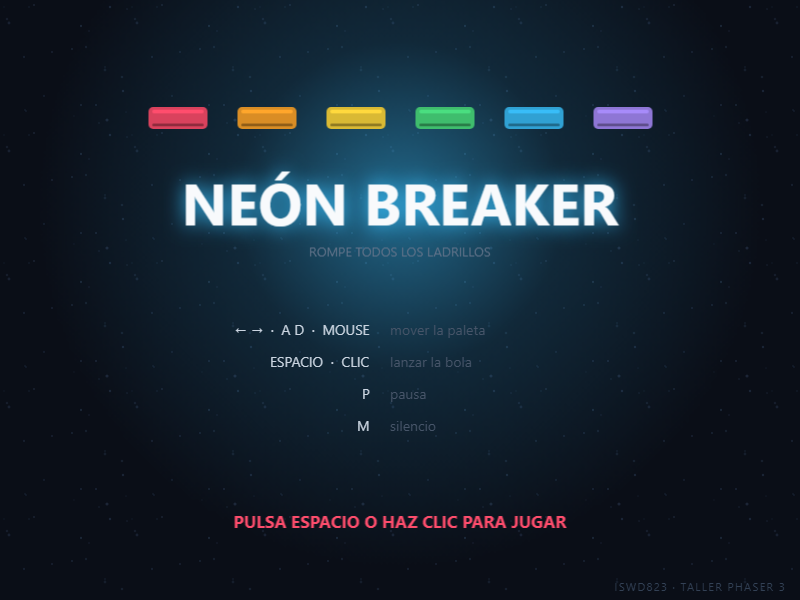
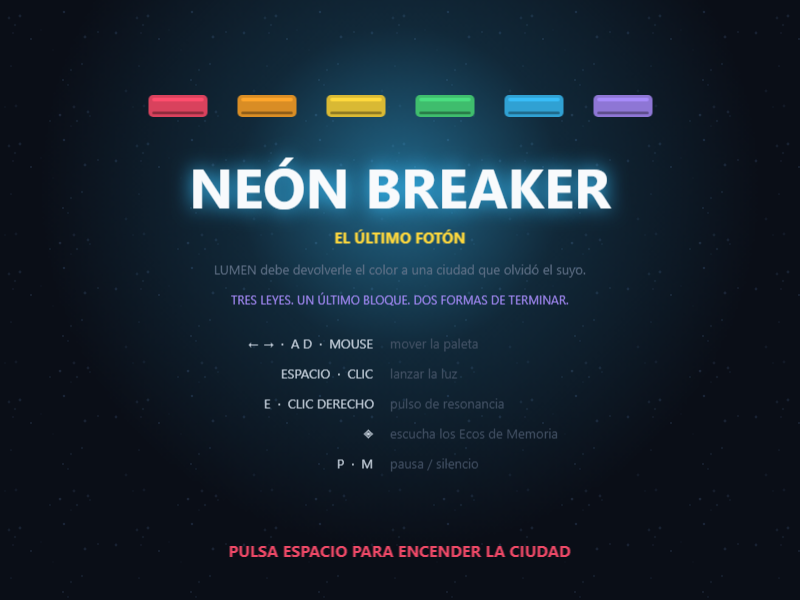
docs: capturas y texto de la version narrativa v2

diff --git a/ENTREGA-TALLER2.md b/ENTREGA-TALLER2.md
@@ -1,0 +1,150 @@
+# Entrega — Taller: Pre-Producción y CI/CD en Videojuegos
+
+## Mensaje para el canal de Teams
+
+```
+Taller Pre-Producción y CI/CD — Axel Manotoa
+
+Landing Page (GitHub Pages): https://2026b-sof-jueg-gr3.github.io/manotoa-axel-jueg-gr3/
+Plataforma Indie (Itch.io): https://axel112004.itch.io/neon-breaker
+
+CI/CD configurado con GitHub Actions + Butler:
+Archivo YAML: .github/workflows/deploy-itchio.yml
+
+Logline: LUMEN, el último fotón de una ciudad que olvidó su color, rompe los bloques del Apagón
+para devolverle la luz — sin saber que cada bloque es un recuerdo suyo, y que el último que quede
+en pie decidirá si la ciudad vuelve a brillar o vuelve a recordar.
+
+La narrativa se juega: 3 Leyes de la Luz como Ecos de Memoria, Pulso de Resonancia, un Interludio
+con giro, una cámara final con dos finales y un truco secreto que entrega el Sello del Último Fotón.
+
+Clasificación: E (Everyone) — violencia mínima contra bloques inanimados.
+Licencia: MIT · Assets procedimentales CC0 · Datos solo en localStorage, sin servidor ni analytics.
+```
+
+## Checklist
+
+- [x] **Misión 1:** Logline + **Lore** (3 Leyes) + **Resonancia** (aprender = recordar) + **Identidad** (romper = borrar un nombre), todo implementado dentro del juego, no solo en la web. Ver `docs/PREPRODUCCION.md`.
+- [x] **Misión 1 extra:** giro narrativo (Interludio), truco secreto, dos finales, Sello persistente y Código de Luz.
+- [x] **Misión 2:** Clasificación creativa E + justificación de intensidad visual + Muro de Honor con licencias + **declaración de privacidad de datos locales**.
+- [x] **Misión 3:** Landing page inmersiva en `index.html` (raíz del repo) con botón JUGAR que lleva a `juego/index.html`.
+- [x] **Misión 3:** Desplegada en GitHub Pages desde `main` / `/(root)`.
+- [ ] **Misión 4:** Crear cuenta en Itch.io y subir el juego (requiere tu acción manual o configurar los Secrets).
+- [x] **Misión Legendaria:** Archivo `.github/workflows/deploy-itchio.yml` configurado.
+- [ ] **Misión Legendaria:** Configurar los 3 Secrets en GitHub (`ITCHIO_API_KEY`, `ITCHIO_USERNAME`, `ITCHIO_GAME`).
+
+## Lo que ya está hecho
+
+1. **Landing page** (`index.html` en la raíz): terminal neón con estrellas animadas, scanlines,
+   ladrillos que pulsan, logline, las cuatro piezas de la FASE 1, sección legal con muro de honor
+   y declaración de privacidad, y botón JUGAR.
+2. **Juego** (`juego/index.html`): Neón Breaker *El Último Fotón*, versión narrativa completa —
+   6 escenas, 3 Leyes como Ecos de Memoria, Pulso de Resonancia, Interludio con giro, Núcleo con
+   dos finales, truco secreto, Sello persistente y Código de Luz. La landing ya no promete nada que
+   el juego no haga.
+3. **CI/CD** (`.github/workflows/deploy-itchio.yml`): workflow que empaqueta el juego, instala
+   Butler desde `broth.itch.zone` y lo sube a Itch.io en cada push a main.
+   Se evita la acción comunitaria rota `josephbmanley/butler-publish-itchio-action@v1.0.3`
+   (usa el dominio muerto `broth.itch.ovh`).
+   **Incluye guardia de Secrets:** si aún no están los 3 Secrets, el job termina en verde con un
+   aviso y omite el despliegue, en vez de fallar y mandar correos de error en cada push.
+
+## Lo que falta (requiere tu cuenta de Itch.io)
+
+### Paso 1 — Crear el proyecto en Itch.io (`https://itch.io/game/new`)
+
+Valores exactos para cada campo del formulario:
+
+| Campo | Valor |
+|---|---|
+| **Title** | `Neon Breaker` |
+| **Project URL** | `https://axel112004.itch.io/neon-breaker` (ya aparece así, déjalo) |
+| **Short description or tagline** | `El último fotón de una ciudad que olvidó su color.` |
+| **Classification** | `Games – A piece of software you can play` ✅ |
+| **Kind of project** | `HTML – You have a ZIP or HTML file that will be played in the browser` ✅ |
+| **Release status** | `Released – Project is complete, but might receive some updates` ✅ |
+| **Pricing** | mejor **`No payments`** (evita la pantalla de donación; `$0 or donate` también sirve) |
+| **Cover image** | `portada-itchio.png` (630 × 500, generada para este proyecto) |
+| **Screenshots** | sube 3 de `docs/capturas/`: `01-menu.png`, `03-jugando.png`, `07-nucleo.png` (la del Núcleo intriga sin spoilear) |
+| **Upload / files** | sube **`neon-breaker-itchio.zip`** (310 KB). Trae `index.html` en la raíz y Phaser incluido |
+| **Embed options** | **Manually set size** → ancho `800` × alto `600` (la medida real del juego) |
+| **Frame options** | ✅ `Fullscreen button` · ✅ `Mobile friendly` · ❌ el resto (scrollbars, auto-start, SharedArrayBuffer) |
+| **Description** | pega el contenido de `docs/DESCRIPCION-ITCHIO.html` |
+| **Genre** | `Arcade` |
+| **Tags** | `breakout`, `arkanoid`, `phaser`, `neon`, `retro`, `combo`, `powerups`, `student-project` |
+| **AI generation disclosure** | **Yes** (el código y los textos se escribieron con asistencia de un LLM; el arte y el sonido son procedurales) |
+| **App store links / Custom noun** | dejar vacío |
+| **Community** | `Comments` activado (para que los compañeros puedan comentar) |
+| **Visibility & access** | **`Public`** — si solo te deja `Draft`, guarda y cámbialo a Public desde *Edit game* |
+
+> **El usuario es `axel112004`**, no `axel-manotoa`. Ese mismo valor va en el Secret
+> `ITCHIO_USERNAME` y en todos los enlaces. El slug del juego es `neon-breaker`.
+
+> **Usa `neon-breaker-itchio.zip`, no `neon-breaker-web.zip`.** El primero arranca directo en el
+> juego y lleva Phaser dentro (0 peticiones externas); el segundo empieza en la landing page, que
+> hace scroll y se cortaría dentro del iframe de itch.io. La landing page ya cumple su función en
+> GitHub Pages, así que en itch.io no hace falta repetirla.
+
+Después de guardar, ve a **Edit game** y confirma que el ZIP quedó marcado como
+*HTML5 / Playable in browser* (ver Paso 5).
+
+### Paso 2 — Generar API Key
+
+1. Ve a https://itch.io/user/settings/api-keys
+2. Genera una nueva API key.
+3. Cópiala (no la volverás a ver).
+
+### Paso 3 — Configurar Secrets en GitHub
+
+1. Entra a https://github.com/2026B-Sof-Jueg-Gr3/manotoa-axel-jueg-gr3/settings/secrets/actions
+2. Crea tres secrets:
+
+| Name | Value |
+|---|---|
+| `ITCHIO_API_KEY` | (la key del paso 2) |
+| `ITCHIO_USERNAME` | `axel112004` (tu usuario de itch.io) |
+| `ITCHIO_GAME` | `neon-breaker` (el slug del juego) |
+
+### Paso 4 — Probar el CI/CD
+
+Haz un cambio cualquiera en el código, haz commit y push:
+
+```bash
+git add .
+git commit -m "chore: probar CI/CD"
+git push origin main
+```
+
+Ve a la pestaña **Actions** del repositorio en GitHub. Verás el workflow ejecutándose.
+En ~2 minutos, el juego estará actualizado en Itch.io.
+
+### Paso 5 — Marcar el canal como HTML5 (solo la primera vez)
+
+Esto **no lo hace el workflow**: itch.io no detecta juegos web por el nombre del canal, aunque se
+llame `web`. Después del primer push correcto:
+
+1. Entra a **Edit game** en itch.io.
+2. En la sección de **Uploads**, edita el canal `web` y marca **"HTML5 / Playable in browser"**.
+3. Cambia el tipo de la página de *Downloadable* a **HTML**.
+4. **Save**. A partir de ahí el juego se juega en el navegador dentro de itch.io.
+
+> El `index.html` de la raíz del paquete **es el juego** (no la landing), y Phaser va dentro del
+> ZIP. Verificado: 0 peticiones externas, 60 ladrillos, bola a 360, sin errores de consola.
+
+> **Sobre los dos uploads:** Butler publica en el canal `web`, que es un *slot* distinto al archivo
+> que subiste a mano desde el formulario (ese no tiene canal). Tras el primer push correcto
+> aparecerán dos archivos en *Edit game*: deja el del canal `web` y borra el manual, para que solo
+> quede el que se actualiza automáticamente. También puedes saltarte la subida manual y dejar que
+> Butler cree el único upload.
+
+## Si algo falla
+
+| Problema | Solución |
+|---|---|
+| El workflow falla en "Install Butler" con `Could not resolve host: broth.itch.ovh` | Eso es la acción rota; el workflow actual ya usa `broth.itch.zone`. Asegúrate de tener el último `deploy-itchio.yml`. |
+| El workflow sale verde pero dice "Despliegue omitido" | Es lo esperado: faltan los 3 Secrets. Completa los pasos 1–3. |
+| Butler dice "Please set BUTLER_API_KEY" | `ITCHIO_API_KEY` está vacío o mal copiado; regenera la key en itch.io. |
+| Butler dice "game not found" | El slug `ITCHIO_GAME` no coincide con el de itch.io (revisa la URL) o el proyecto aún no existe. |
+| En itch.io el juego se descarga en vez de jugarse | Falta el paso 5: marcar el canal `web` como HTML5. |
+| La landing page da 404 | Pages sirve desde `main` / `/(root)`; el `index.html` debe estar en la raíz |
+| El juego no carga desde la landing | Verifica que `juego/index.html` existe y los scripts tienen `../` como prefijo |

diff --git a/docs/ENTREGA-TALLER2.md b/docs/ENTREGA-TALLER2.md
@@ -65,7 +65,7 @@ Valores exactos para cada campo del formulario:
 | **Release status** | `Released – Project is complete, but might receive some updates` ✅ |
 | **Pricing** | mejor **`No payments`** (evita la pantalla de donación; `$0 or donate` también sirve) |
 | **Cover image** | `portada-itchio.png` (630 × 500, generada para este proyecto) |
-| **Screenshots** | sube 3 de `docs/capturas/`: `01-menu.png`, `03-jugando.png`, `05-fin.png` |
+| **Screenshots** | sube 3 de `docs/capturas/`: `01-menu.png`, `03-jugando.png`, `07-nucleo.png` (la del Núcleo intriga sin spoilear) |
 | **Upload / files** | sube **`neon-breaker-itchio.zip`** (310 KB). Trae `index.html` en la raíz y Phaser incluido |
 | **Embed options** | **Manually set size** → ancho `800` × alto `600` (la medida real del juego) |
 | **Frame options** | ✅ `Fullscreen button` · ✅ `Mobile friendly` · ❌ el resto (scrollbars, auto-start, SharedArrayBuffer) |

diff --git a/README.md b/README.md
@@ -18,6 +18,9 @@ CI/CD automático con GitHub Actions.
 
 ![Menú](docs/capturas/01-menu.png)
 ![Jugando](docs/capturas/03-jugando.png)
+![El giro](docs/capturas/06-interludio.png)
+![El Núcleo](docs/capturas/07-nucleo.png)
+![Final verdadero](docs/capturas/08-final-verdadero.png)
 
 ---
 
